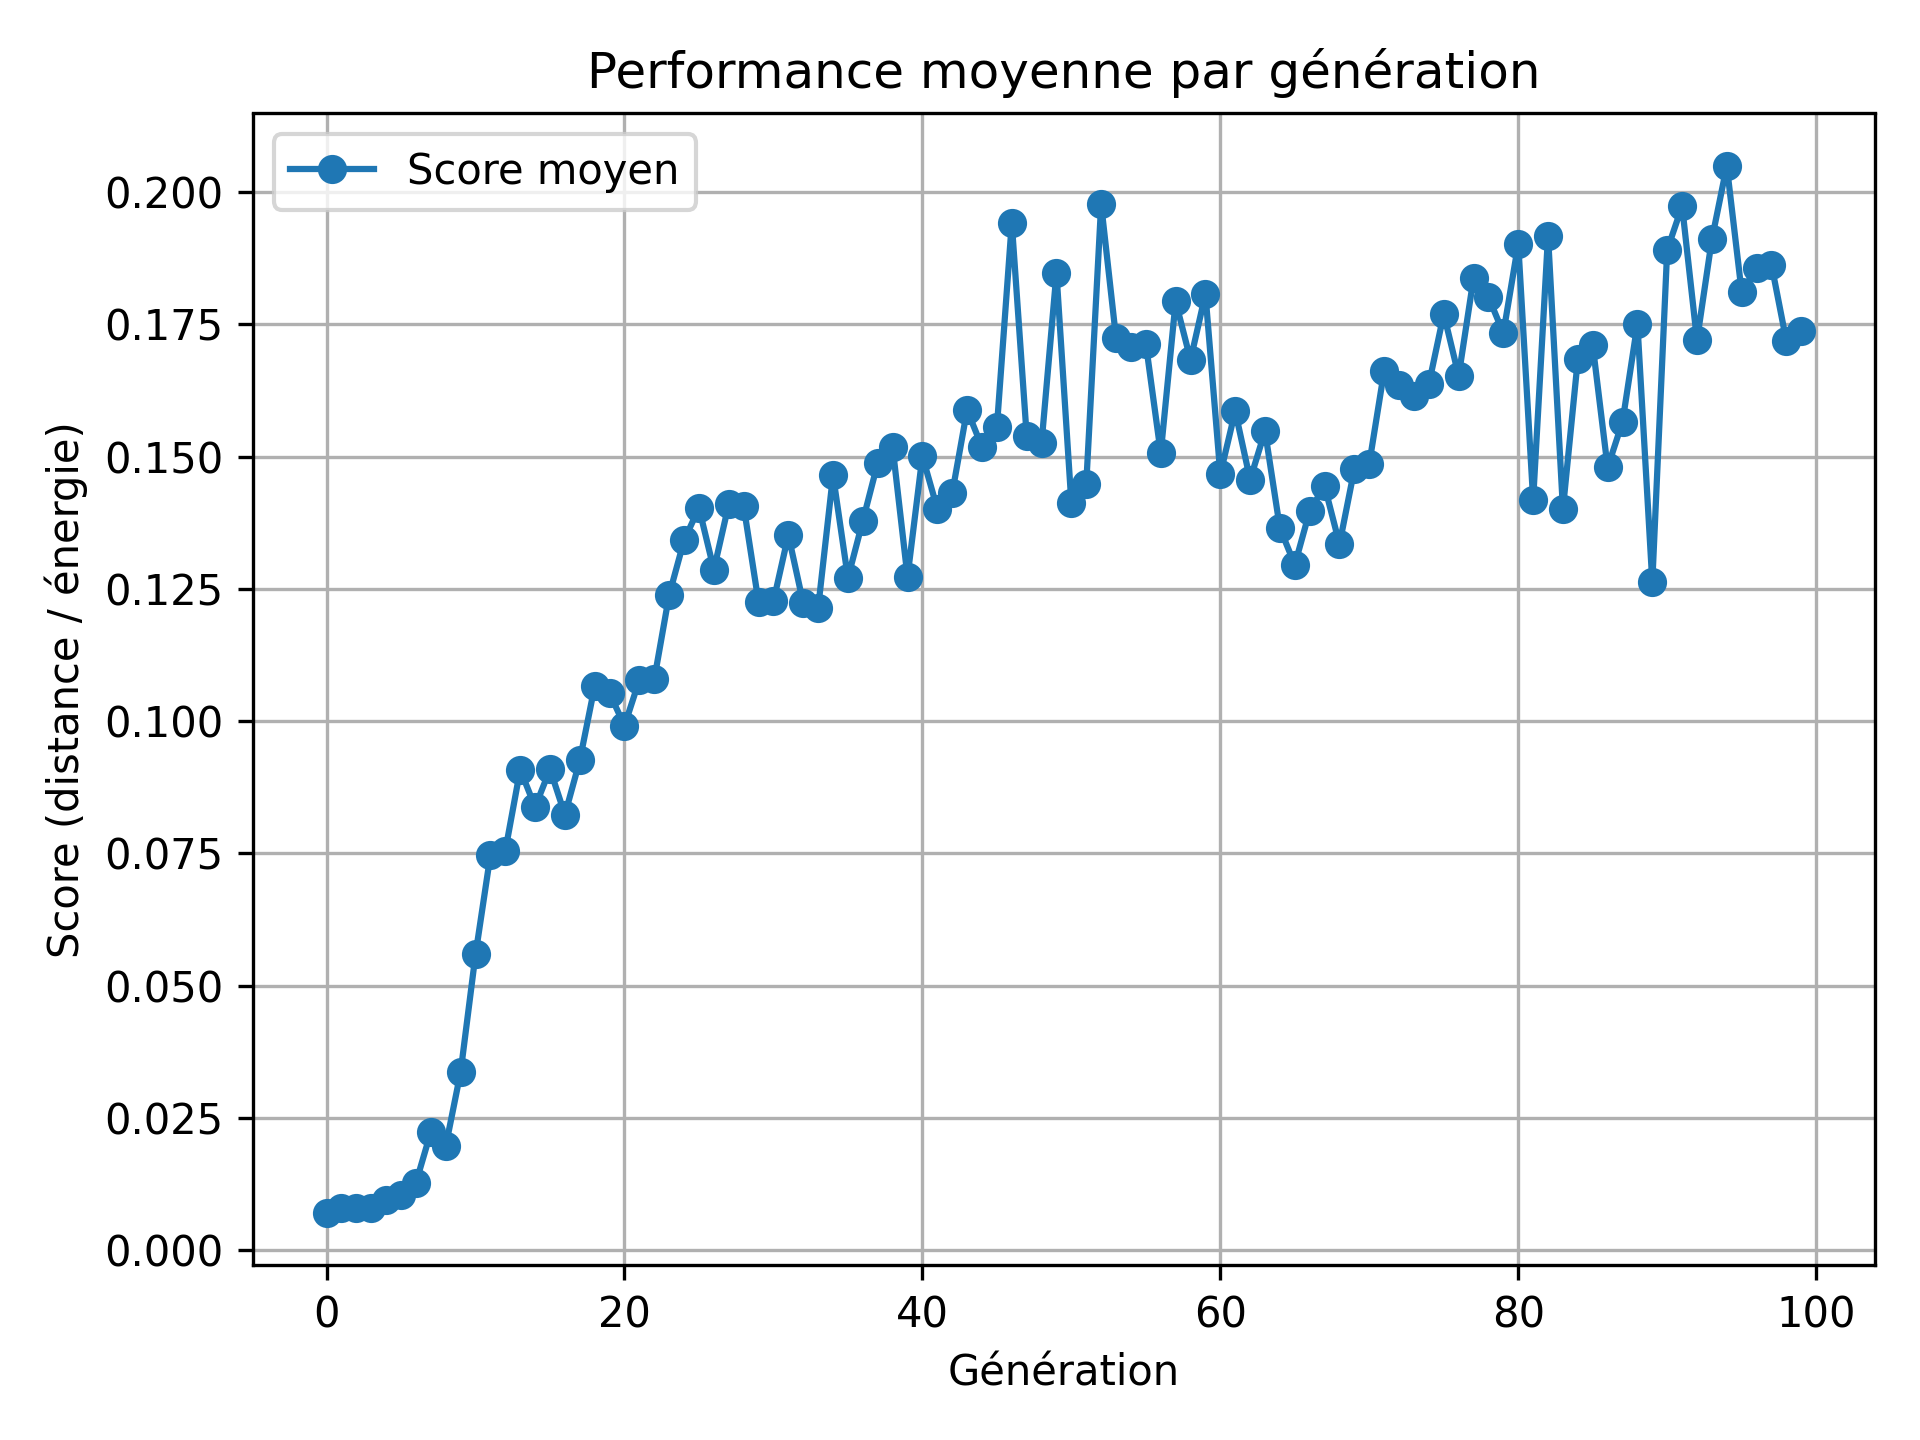
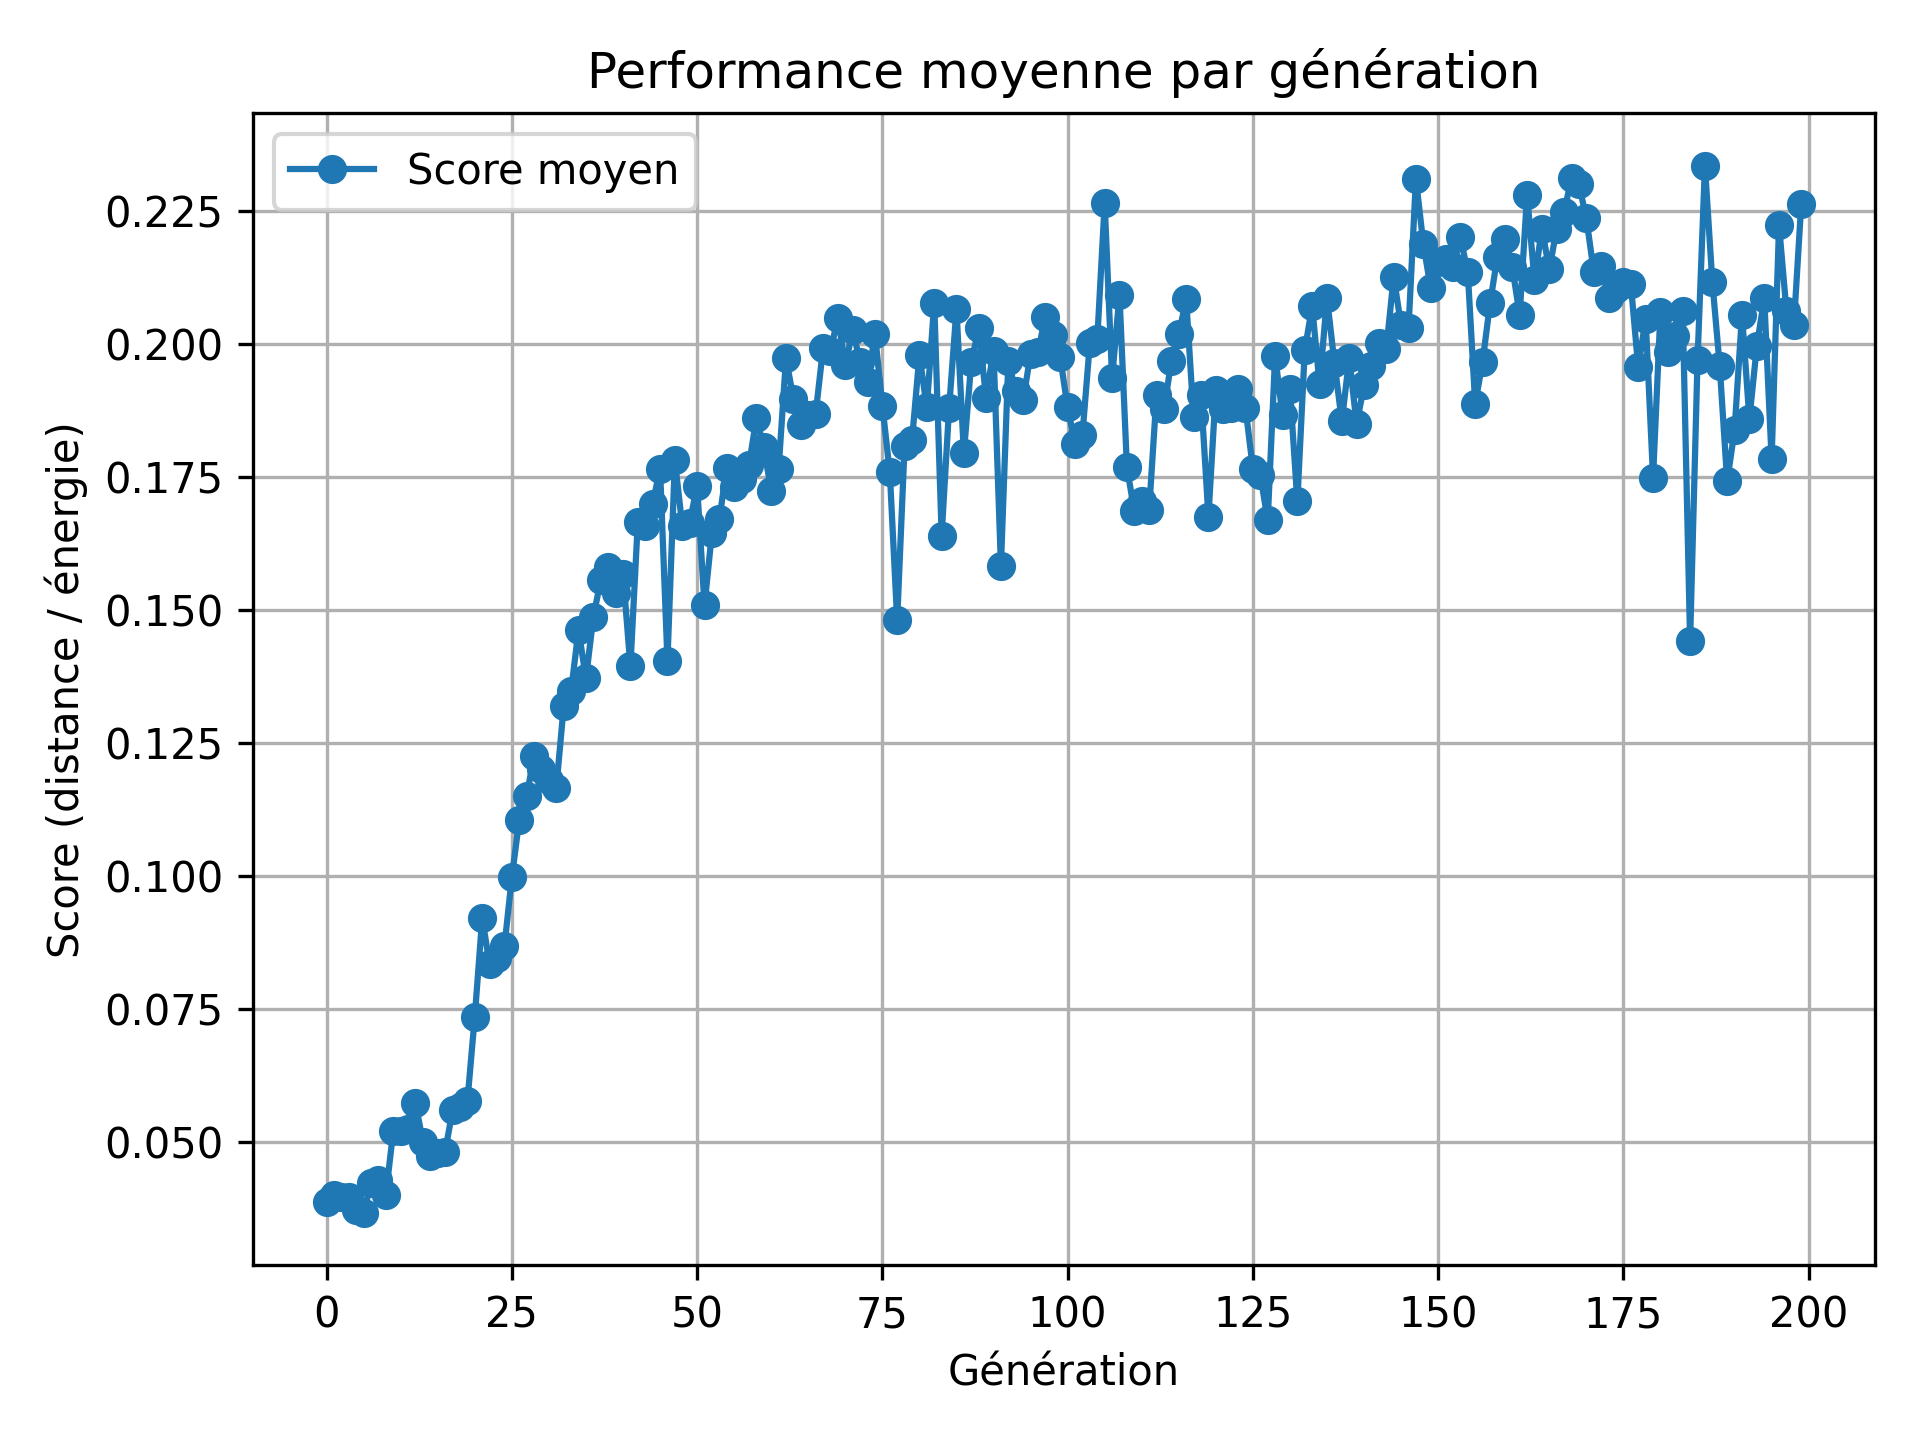
update genom

diff --git a/simulate_population.py b/simulate_population.py
@@ -27,7 +27,7 @@ minimal_genome = {
 n = 150
 dt = 0.002
 steps = 1000
-generations = 100
+generations = 200
 keep_fraction = 0.1
 mutation_strength = 0.01
 
